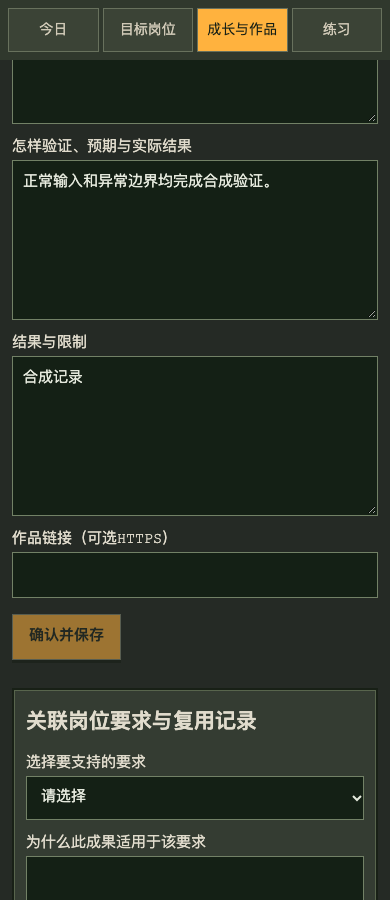
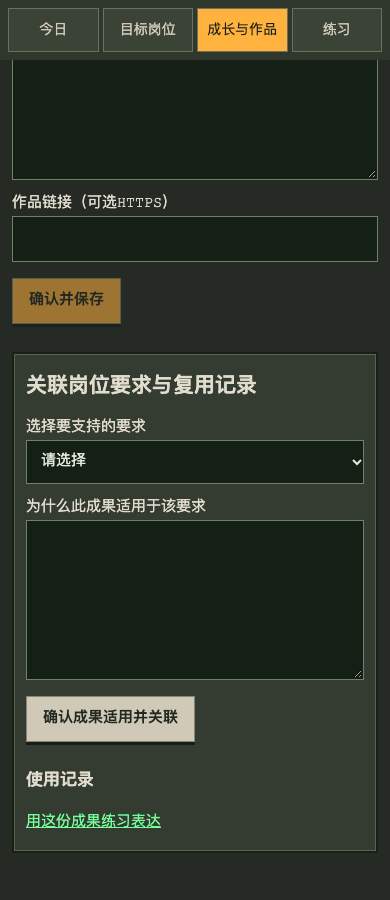
Serialize first-run initialization across browser tabs

Changed region(s): [[0.0308, 0.28, 0.9846, 0.9644], [0.0308, 0.1556, 0.6769, 0.2489]]

diff --git a/tests/migration/repository.test.ts b/tests/migration/repository.test.ts
@@ -7,3 +7,4 @@ test('跨对象坏引用事务回滚，旧数据与恢复副本不丢',async()=>
 test('追加历史不可覆盖；同回答版本并发只保留一次',async()=>{const repo=await openRepository(new IDBFactory(),'test');await repo.replace(migrateLegacy(legacy()),null,legacy());const data=await repo.read(),old=data.answers[0];await assert.rejects(repo.commit([{table:'answers',record:{...old,body:'覆盖历史'},expected:0}]));const one={...old,id:'answer-new-a',version:2,body:'新回答'},two={...one,id:'answer-new-b'};await repo.commit([{table:'answers',record:one,expected:null}]);await assert.rejects(repo.commit([{table:'answers',record:two,expected:null}]));assert.equal((await repo.read()).answers.length,2);repo.close()});
 test('迁移事务中断保留恢复副本，重试可成功',async()=>{const repo=await openRepository(new IDBFactory(),'test');const source=legacy(),data=migrateLegacy(source);await repo.recovery('before',source);const original=repo.db.transaction.bind(repo.db);repo.db.transaction=((...args:any[])=>{const tx=original(...args as Parameters<IDBDatabase['transaction']>);if(args[1]==='readwrite')queueMicrotask(()=>tx.abort());return tx}) as any;await assert.rejects(repo.replace(data,null,source));repo.db.transaction=original;assert.equal(await repo.metadata(),undefined);assert.deepEqual((await repo.recoveries())[0].body,source);await repo.replace(data,null,source);assert.equal((await repo.read()).jobs.length,1);repo.close()});
 test('恢复旧备份后revision单调递增，导入前打开的编辑不能静默覆盖',async()=>{const repo=await openRepository(new IDBFactory(),'test');const source=legacy();await repo.replace(migrateLegacy(source),null,source);const old=(await repo.read()).jobs[0];await repo.replace(migrateLegacy(source),(await repo.metadata()).revision,source);assert.ok((await repo.read()).jobs[0].revision>old.revision);await assert.rejects(repo.commit([{table:'jobs',record:{...old,title:'过期编辑'},expected:old.revision}]));repo.close()});
+test('两个标签首次初始化串行确认，不报冲突或覆盖既有画像',async()=>{const factory=new IDBFactory();const a=await openRepository(factory,'race'),b=await openRepository(factory,'race');await Promise.all([a.initialize(),b.initialize()]);assert.equal((await a.read()).profiles.length,1);const p=(await a.read()).profiles[0];await a.commit([{table:'profiles',record:{...p,hours:7},expected:p.revision}]);await b.initialize();assert.equal((await b.read()).profiles[0].hours,7);assert.equal((await b.metadata()).revision,1);a.close();b.close()});

diff --git a/src/storage/repository.ts b/src/storage/repository.ts
@@ -29,7 +29,12 @@ export class Repository{
    for(const t of tables){tx.objectStore(t).clear();for(const record of valid[t]){const previous=prior[t].find(r=>r.id===record.id);tx.objectStore(t).put({...record,revision:previous?Math.max(previous.revision+1,record.revision):record.revision})}}tx.objectStore('meta').put({id:'active',schemaVersion:2,revision:(current?.revision??-1)+1,updatedAt:Date.now(),source:label});
   }catch(e){failure=e;try{tx.abort()}catch{}}try{await done}catch(e){throw failure||e}
  }
- async initialize(){if(await this.metadata())return;const d=emptyDataset();d.profiles=[newProfile()];await this.replace(d,null,null,'new')}
+ async initialize(){
+  // Serialize the existence check and seed in one transaction across tabs.
+  const tx=this.db.transaction([...tables,'meta'],'readwrite'),done=complete(tx);let failure:unknown;
+  try{const current=await request(tx.objectStore('meta').get('active'));if(!current){const d=emptyDataset();d.profiles=[newProfile()];validateDataset(d);tx.objectStore('profiles').put(d.profiles[0]);tx.objectStore('meta').put({id:'active',schemaVersion:2,revision:0,updatedAt:Date.now(),source:'new'})}}
+  catch(e){failure=e;try{tx.abort()}catch{}}try{await done}catch(e){throw failure||e}
+ }
  close(){this.db.close()}
 }
 export async function legacyBackup(factory:IDBFactory=indexedDB){

diff --git a/shared/schemas/model.ts b/shared/schemas/model.ts
@@ -1,4 +1,6 @@
 import {z} from 'zod';
+// Keep schema validation compatible with the strict script-src self policy.
+z.config({jitless:true});
 const id=z.string().regex(/^[a-zA-Z0-9][a-zA-Z0-9_~:-]{0,159}$/,'标识含不支持字符'),text=z.string().max(32000),date=z.string().refine(s=>!s||/^\d{4}-\d{2}-\d{2}$/.test(s)&&Number.isFinite(Date.parse(s))&&new Date(s).toISOString().slice(0,10)===s,'日期无效');
 const base={id,createdAt:z.number().finite(),updatedAt:z.number().finite(),revision:z.number().int().nonnegative()};
 const optionalId=id.nullable().default(null),ids=z.array(id).max(1000).default([]);

diff --git a/docs/TEST_REPORT.md b/docs/TEST_REPORT.md
@@ -7,11 +7,11 @@
 | 验证 | 结果 | 证据 |
 |---|---|---|
 | 原有规则/网关测试 | 70/70 | v08/audit/v08-unit.log |
-| 新迁移/仓储/领域测试 | 14/14 | v08/audit/v08-core.log |
+| 新迁移/仓储/领域测试 | 15/15 | v08/audit/v08-core.log |
 | 新 UI 三浏览器 | 36/36，Chromium/Firefox/WebKit | v08/audit/v08-e2e.log |
 | 减少动态效果的截图/保护测试复跑 | 9/9，属于前述用例子集，不额外累计 | v08/audit/v08-visual-rerun.log |
 | 固定 v0.7 旧界面基线复跑 | 39/39，与新版用例分开 | v08/audit/v08-legacy-rerun.log |
-| TypeScript + Vite 构建 | 通过；JS 514.83 KB / gzip 159.36 KB，存在 500 KB 单包提示 | v08/audit/v08-build.log |
+| TypeScript + Vite 构建 | 通过；JS 515.12 KB / gzip 159.41 KB，存在 500 KB 单包提示 | v08/audit/v08-build.log |
 
 新版覆盖：首次未知画像、JD 原文保存与手动确认、路由刷新/前进后退、URL 筛选、390/768/1280 布局、键盘主入口、静态资源与敏感路径隔离；旧数据库预览迁移、恢复副本、双岗位共享成果/取消关联、共性任务/重排取消/估时容量/稳定 ID、材料旧版本实际使用、答案历史与旧反馈、未归属申请确认关联/轮次保留/Offer 对照、双标签冲突/草稿恢复/未保存离开取消、注入写入失败后重试。
 
@@ -24,6 +24,8 @@
 已检查 1280px 今日和 390px 成果页面截图；首屏 CRT 动画用 steps，减少动态效果模式不闪烁。Mac WebKit 完整键盘链接导航采用 Option+Tab，其他浏览器使用 Tab；没有为过测而移除链接可访问性断言。
 
 ## 修复与限制
+
+GitHub 首次运行 41033522831 的 Firefox 双标签测试发现空库初始化竞态（35/36 通过）。已改为单事务检查并初始化，新增双连接回归测试；页面冲突测试明确等待两页建立编辑基线，再触发冲突。修复后本机 36/36 和核心 15/15 通过，未增加重试或超时。Zod 动态代码探测同时关闭，保持严格 CSP。
 
 本轮修复成果关联请求竞态、恢复后旧编辑 revision 被误接受、事务中断处理、恢复后表单重置、指南路径、未归属面试事项链接；补齐旧申请归属和 Offer 对照。保存失败不清空输入，用户未确认的内容不写为正式事实。
 
